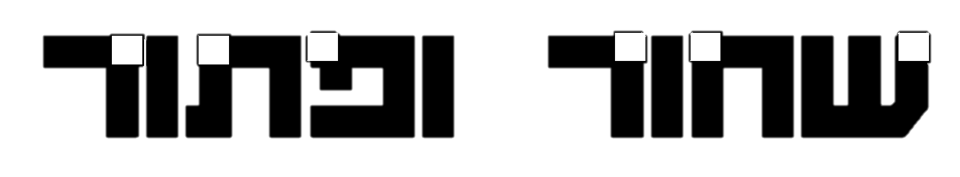
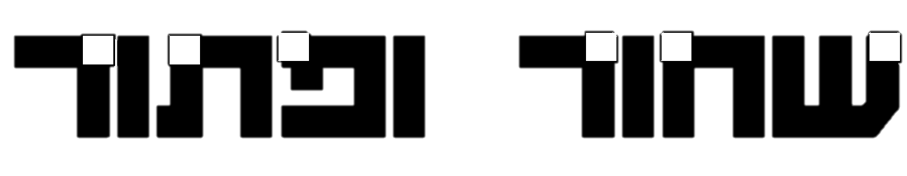
orgenized canvas and links and added css page

Changed region(s): [[0.0, 0.1705, 0.4939, 0.7955], [0.5557, 0.1705, 1.0, 0.7955]]

diff --git a/nonogram_website.html b/nonogram_website.html
@@ -7,8 +7,10 @@
     background-repeat: no-repeat;
     background-size: cover;
     direction: rtl">
-        <img src="img/title_black.png" class="center">
+        <img src="img/title_black.png" class="center" style="width: 800px; height: 200px;">
         <canvas id="myCanvas" width="800" height="800" style="border:1px solid #000000;"></canvas>
+        <img id="x_img" src="img/X.png" height="0px" width="0px"> 
+        <img id="rect_img" src="img/rect.png" height="0px" width="0px">
         <script src="square.js"></script>
         <script src="table.js"></script>
     </body>

diff --git a/style_sheet.css b/style_sheet.css
@@ -1,6 +1,6 @@
-.center {
+canvas {
+    padding: 0;
+    margin: auto;
     display: block;
-    margin-left: auto;
-    margin-right: auto;
-    width: 50%;
-  }  
+    width: 800px;
+}
